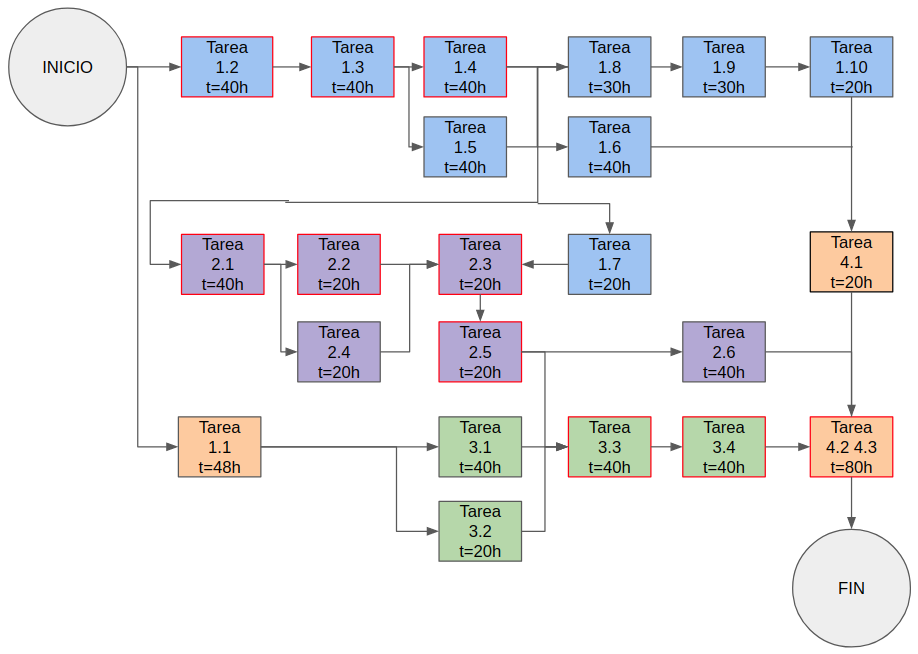
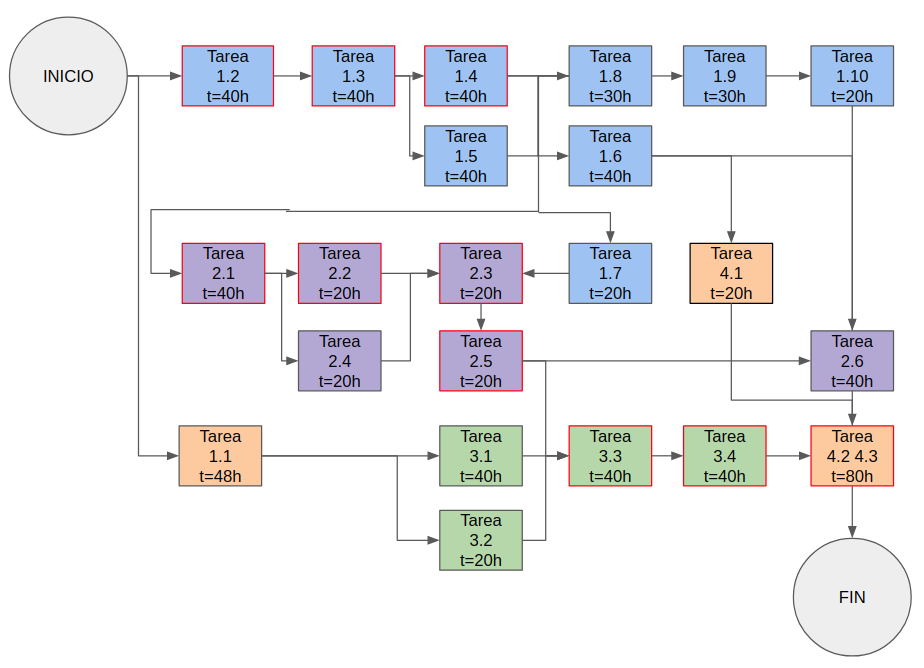
Completar hasta el punto 11 inclusivo

diff --git a/charter.tex b/charter.tex
@@ -335,130 +335,65 @@ Cantidad total de horas: (748hs)
 \section{7. Diagrama de Activity On Node}
 \label{sec:AoN}
 
-\begin{consigna}{red}
-Armar el AoN a partir del WBS definido en la etapa anterior. 
-
-%La figura \ref{fig:AoN} fue elaborada con el paquete latex tikz y pueden consultar la siguiente referencia \textit{online}:
-
-%\url{https://www.overleaf.com/learn/latex/LaTeX_Graphics_using_TikZ:_A_Tutorial_for_Beginners_(Part_3)\%E2\%80\%94Creating_Flowcharts}
-
-\end{consigna}
+En el la Figura \ref{fig:diagAoN} se ilustra el diagrama Activity On Node, la ruta crítica es resaltada en cuadros rojos. Aunque solo se cuenta con un recurso humano a lo largo del proyecto, se ejecutan tareas relacionadas en paralelo.
+\begin{enumerate}
+\item Las tareas están expresadas en horas.
+\item La duración del camino crítico es de 380 horas.
+\end{enumerate}
 
 \begin{figure}[htpb]
 \centering 
-\includegraphics[width=.8\textwidth]{./Figuras/AoN.png}
-\caption{Diagrama en \textit{Activity on Node}}
-\label{fig:AoN}
+\includegraphics[width=1.\textwidth]{./Figuras/diagAoN.png}
+\caption{Diagrama Activity On Node}
+\label{fig:diagAoN}
 \end{figure}
 
-Indicar claramente en qué unidades están expresados los tiempos.
-De ser necesario indicar los caminos semicríticos y analizar sus tiempos mediante un cuadro.
-Es recomendable usar colores y un cuadro indicativo describiendo qué representa cada color, como se muestra en el siguiente ejemplo:
-
-
+\newpage
 
 \section{8. Diagrama de Gantt}
 \label{sec:gantt}
 
-\begin{consigna}{red}
-Utilizar el software Gantter for Google Drive o alguno similar para dibujar el diagrama de Gantt.
+En la Figura \ref{fig:ganttTable} y Figura \ref{fig:ganttTimeline} se ve el diagrama de gantt dividido en la tabla de tareas y la línea de tiempo.
 
-Existen muchos programas y recursos \textit{online} para hacer diagramas de gantt, entre las cuales destacamos:
-
-\begin{itemize}
-\item Planner
-\item GanttProject
-\item Trello + \textit{plugins}. En el siguiente link hay un tutorial oficial: \\ \url{https://blog.trello.com/es/diagrama-de-gantt-de-un-proyecto}
-\item Creately, herramienta online colaborativa. \\\url{https://creately.com/diagram/example/ieb3p3ml/LaTeX}
-\item Se puede hacer en latex con el paquete \textit{pgfgantt}\\ \url{http://ctan.dcc.uchile.cl/graphics/pgf/contrib/pgfgantt/pgfgantt.pdf}
-\end{itemize}
-
-Pegar acá una captura de pantalla del diagrama de Gantt, cuidando que la letra sea suficientemente grande como para ser legible. 
-Si el diagrama queda demasiado ancho, se puede pegar primero la ``tabla'' del Gantt y luego pegar la parte del diagrama de barras del diagrama de Gantt.
-
-Configurar el software para que en la parte de la tabla muestre los códigos del EDT (WBS).\\
-Configurar el software para que al lado de cada barra muestre el nombre de cada tarea.\\
-Revisar que la fecha de finalización coincida con lo indicado en el Acta Constitutiva.
-
-En la figura \ref{fig:gantt}, se muestra un ejemplo de diagrama de gantt realizado con el paquete de \textit{pgfgantt}. En la plantilla pueden ver el código que lo genera y usarlo de base para construir el propio.
-
-\begin{figure}[htbp]
-\begin{center}
-\begin{ganttchart}{1}{12}
-  \gantttitle{2020}{12} \\
-  \gantttitlelist{1,...,12}{1} \\
-  \ganttgroup{Group 1}{1}{7} \\
-  \ganttbar{Task 1}{1}{2} \\
-  \ganttlinkedbar{Task 2}{3}{7} \ganttnewline
-  \ganttmilestone{Milestone o hito}{7} \ganttnewline
-  \ganttbar{Final Task}{8}{12}
-  \ganttlink{elem2}{elem3}
-  \ganttlink{elem3}{elem4}
-\end{ganttchart}
-\end{center}
-\caption{Diagrama de gantt de ejemplo}
-\label{fig:gantt}
+\begin{figure}[htpb]
+\centering 
+\includegraphics[width=1.\textwidth]{./Figuras/ganttTable.png}
+\caption{Tabla de tareas Gantt}
+\label{fig:ganttTable}
 \end{figure}
 
-\end{consigna}
+\begin{figure}[htpb]
+\centering 
+\includegraphics[width=1.\textwidth]{./Figuras/ganttTimeline.png}
+\caption{Diagrama de Gantt}
+\label{fig:ganttTimeline}
+\end{figure}
 
 \section{9. Matriz de uso de recursos de materiales}
 \label{sec:recursos}
 
 
-\begin{table}
+\begin{table}[htpb]
 \label{tab:recursos}
 \centering
-\begin{tabularx}{\linewidth}{@{}|c|X|X|X|X|c|@{}}
+\begin{tabularx}{\linewidth}{@{}|c|X|c|c|c|c|@{}}
 \hline
 \cellcolor[HTML]{C0C0C0} & \cellcolor[HTML]{C0C0C0} & \multicolumn{4}{c|}{\cellcolor[HTML]{C0C0C0}Recursos requeridos (horas)} \\ \cline{3-6} 
-\multirow{-2}{*}{\cellcolor[HTML]{C0C0C0}\begin{tabular}[c]{@{}c@{}}Código\\ WBS\end{tabular}} & \multirow{-2}{*}{\cellcolor[HTML]{C0C0C0}\begin{tabular}[c]{@{}c@{}}Nombre \\ tarea\end{tabular}} & Material 1 & Material 2 & Material 3 & Material 4 \\ \hline
- &  &  &  &  &  \\ \hline
- &  &  &  &  &  \\ \hline
- &  &  &  &  &  \\ \hline
- &  &  &  &  &  \\ \hline
- &  &  &  &  &  \\ \hline
- &  &  &  &  &  \\ \hline
- &  &  &  &  &  \\ \hline
- &  &  &  &  &  \\ \hline 
- &  &  &  &  &  \\ \hline
- &  &  &  &  &  \\ \hline
- &  &  &  &  &  \\ \hline
- &  &  &  &  &  \\ \hline
- &  &  &  &  &  \\ \hline
- &  &  &  &  &  \\ \hline
- &  &  &  &  &  \\ \hline
- &  &  &  &  &  \\ \hline
- &  &  &  &  &  \\ \hline
- &  &  &  &  &  \\ \hline
- &  &  &  &  &  \\ \hline
- &  &  &  &  &  \\ \hline
- &  &  &  &  &  \\ \hline
- &  &  &  &  &  \\ \hline
- &  &  &  &  &  \\ \hline
- &  &  &  &  &  \\ \hline 
- &  &  &  &  &  \\ \hline
- &  &  &  &  &  \\ \hline
- &  &  &  &  &  \\ \hline
- &  &  &  &  &  \\ \hline
+\multirow{-2}{*}{\cellcolor[HTML]{C0C0C0}\begin{tabular}[c]{@{}c@{}}Código\\ WBS\end{tabular}} & \multirow{-2}{*}{\cellcolor[HTML]{C0C0C0}\begin{tabular}[c]{@{}c@{}}Nombre de la tarea\end{tabular}} & Colab & PC & Youtube & Simulador \\ \hline
+ 1.1& Analizar videos y resultados	&  		&	&  30	& 18 \\ \hline
+ 1 	& Desarrollo Piepline IA 	&   300 &  		&  		&  \\ \hline
+ 2	& Desarrollo del Engine de seguimiento &  & 160  &  &  \\ \hline
+ 3	& Desarrollo del dashboard / web app & & 140 &  &  \\ \hline
 
 \end{tabularx}%
 \end{table}
 
+*Simulador será cualquier programa o aplicación que permita obtener videos de muestra fuera de lo que es posible conseguir en canales como youtube, a fin de probar un escenario más cercano al layout de una tienda y poder generar videos más largos. Como posible simulador se podrá utilizar sistemas de renderizado 3D o juegos como el Sims.
+
+\newpage
 
 \section{10. Presupuesto detallado del proyecto}
 \label{sec:presupuesto}
-
-\begin{consigna}{red}
-Si el proyecto es complejo entonces separarlo en partes:
-\begin{itemize}
-\item Un total global, indicando el subtotal acumulado por cada una de las áreas.
-\item El desglose detallado del subtotal de cada una de las áreas.
-\end{itemize}
-
-IMPORTANTE: No olvidarse de considerar los COSTOS INDIRECTOS.
-
-\end{consigna}
 
 \begin{table}[htpb]
 \centering
@@ -471,14 +406,14 @@ Descripción &
   \multicolumn{1}{c|}{\cellcolor[HTML]{C0C0C0}Cantidad} &
   \multicolumn{1}{c|}{\cellcolor[HTML]{C0C0C0}Valor unitario} &
   \multicolumn{1}{c|}{\cellcolor[HTML]{C0C0C0}Valor total} \\ \hline
- &
-  \multicolumn{1}{c|}{} &
-  \multicolumn{1}{c|}{} &
-  \multicolumn{1}{c|}{} \\ \hline
- &
-  \multicolumn{1}{c|}{} &
-  \multicolumn{1}{c|}{} &
-  \multicolumn{1}{c|}{} \\ \hline
+Horas de ingeniería &
+  \multicolumn{1}{c|}{648 horas} &
+  \multicolumn{1}{c|}{\$6 USD} &
+  \multicolumn{1}{c|}{\$3888 USD} \\ \hline
+Computadora personal &
+  \multicolumn{1}{c|}{1} &
+  \multicolumn{1}{c|}{\$800 USD} &
+  \multicolumn{1}{c|}{\$800 USD} \\ \hline
 \multicolumn{1}{|l|}{} &
    &
    &
@@ -488,7 +423,7 @@ Descripción &
    &
    \\ \hline
 \multicolumn{3}{|c|}{SUBTOTAL} &
-  \multicolumn{1}{c|}{} \\ \hline
+  \multicolumn{1}{c|}{\$4688 USD} \\ \hline
 \rowcolor[HTML]{C0C0C0} 
 \multicolumn{4}{|c|}{\cellcolor[HTML]{C0C0C0}COSTOS INDIRECTOS} \\ \hline
 \rowcolor[HTML]{C0C0C0} 
@@ -496,22 +431,22 @@ Descripción &
   \multicolumn{1}{c|}{\cellcolor[HTML]{C0C0C0}Cantidad} &
   \multicolumn{1}{c|}{\cellcolor[HTML]{C0C0C0}Valor unitario} &
   \multicolumn{1}{c|}{\cellcolor[HTML]{C0C0C0}Valor total} \\ \hline
-\multicolumn{1}{|l|}{} &
-   &
-   &
-   \\ \hline
-\multicolumn{1}{|l|}{} &
-   &
-   &
-   \\ \hline
+Licencia del sistema de gestión &
+  \multicolumn{1}{c|}{1} &
+  \multicolumn{1}{c|}{\$14 USD} &
+  \multicolumn{1}{c|}{\$14 USD} \\ \hline
+Costo de almacenamiento 100G &
+  \multicolumn{1}{c|}{1} &
+  \multicolumn{1}{c|}{\$20 USD} &
+  \multicolumn{1}{c|}{\$20 USD} \\ \hline
 \multicolumn{1}{|l|}{} &
    &
    &
    \\ \hline
 \multicolumn{3}{|c|}{SUBTOTAL} &
-  \multicolumn{1}{c|}{} \\ \hline
+  \multicolumn{1}{c|}{\$34 USD} \\ \hline
 \rowcolor[HTML]{C0C0C0}
-\multicolumn{3}{|c|}{TOTAL} &
+\multicolumn{3}{|c|}{TOTAL} & \$4722 USD
    \\ \hline
 \end{tabularx}%
 \end{table}
@@ -519,8 +454,6 @@ Descripción &
 
 \section{11. Matriz de asignación de responsabilidades}
 \label{sec:responsabilidades}
-\begin{consigna}{red}
-Establecer la matriz de asignación de responsabilidades y el manejo de la autoridad completando la siguiente tabla:
 
 \begin{table}[htpb]
 \centering
@@ -543,16 +476,17 @@ Establecer la matriz de asignación de responsabilidades y el manejo de la autor
   \multirow{-3}{*}{\cellcolor[HTML]{C0C0C0}Nombre de la tarea} &
   \authorname &
   \supname &
-  Nombre de alguien &
-  \clientename \\ \hline
- &  &  &  &  &  \\ \hline
- &  &  &  &  &  \\ \hline
- &  &  &  &  &  \\ \hline
+  \clientename &
+  Usuario \\ \hline
+ 1 & Desarrollo Piepline IA & P & A & I &  \\ \hline
+ 2 & Desarrollo del Engine & P & I & A &  \\ \hline
+ 3 & Desarrollo del dashboard & P & I & A & C \\ \hline
+ 4 & Presentación del trabajo & P & A & I &  \\ \hline
 \end{tabular}%
 }
 \end{table}
 
-{\footnotesize
+
 Referencias:
 \begin{itemize}
 	\item P = Responsabilidad Primaria
@@ -561,14 +495,8 @@ Referencias:
 	\item I = Informado
 	\item C = Consultado
 \end{itemize}
-} %footnotesize
 
-Una de las columnas debe ser para el Director, ya que se supone que participará en el proyecto.
-A su vez se debe cuidar que no queden muchas tareas seguidas sin ``A'' o ``I''.
-
-Importante: es redundante poner ``I/A'' o ``I/C'', porque para aprobarlo o responder consultas primero la persona debe ser informada.
-
-\end{consigna}
+\newpage
 
 \section{12. Gestión de riesgos}
 \label{sec:riesgos}
